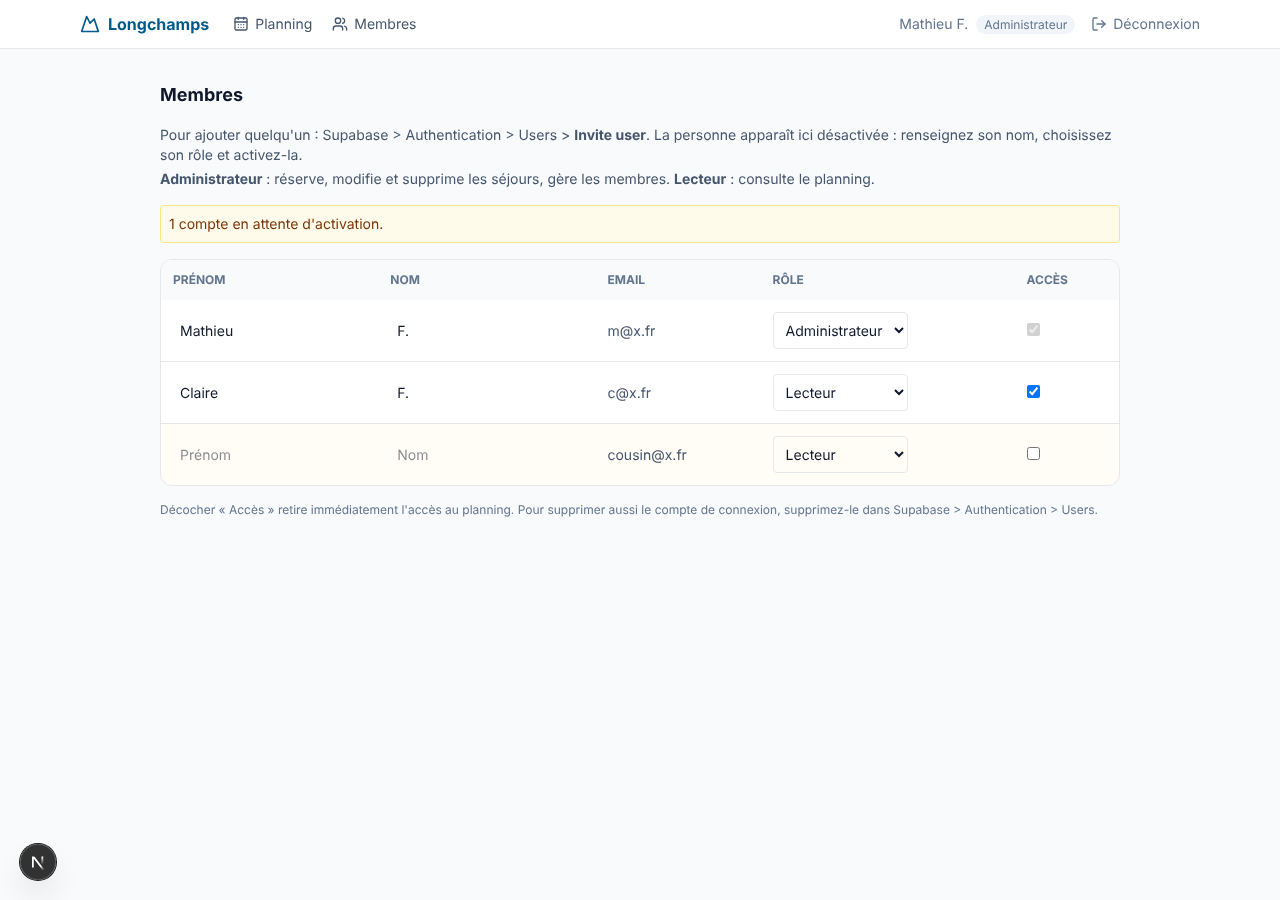
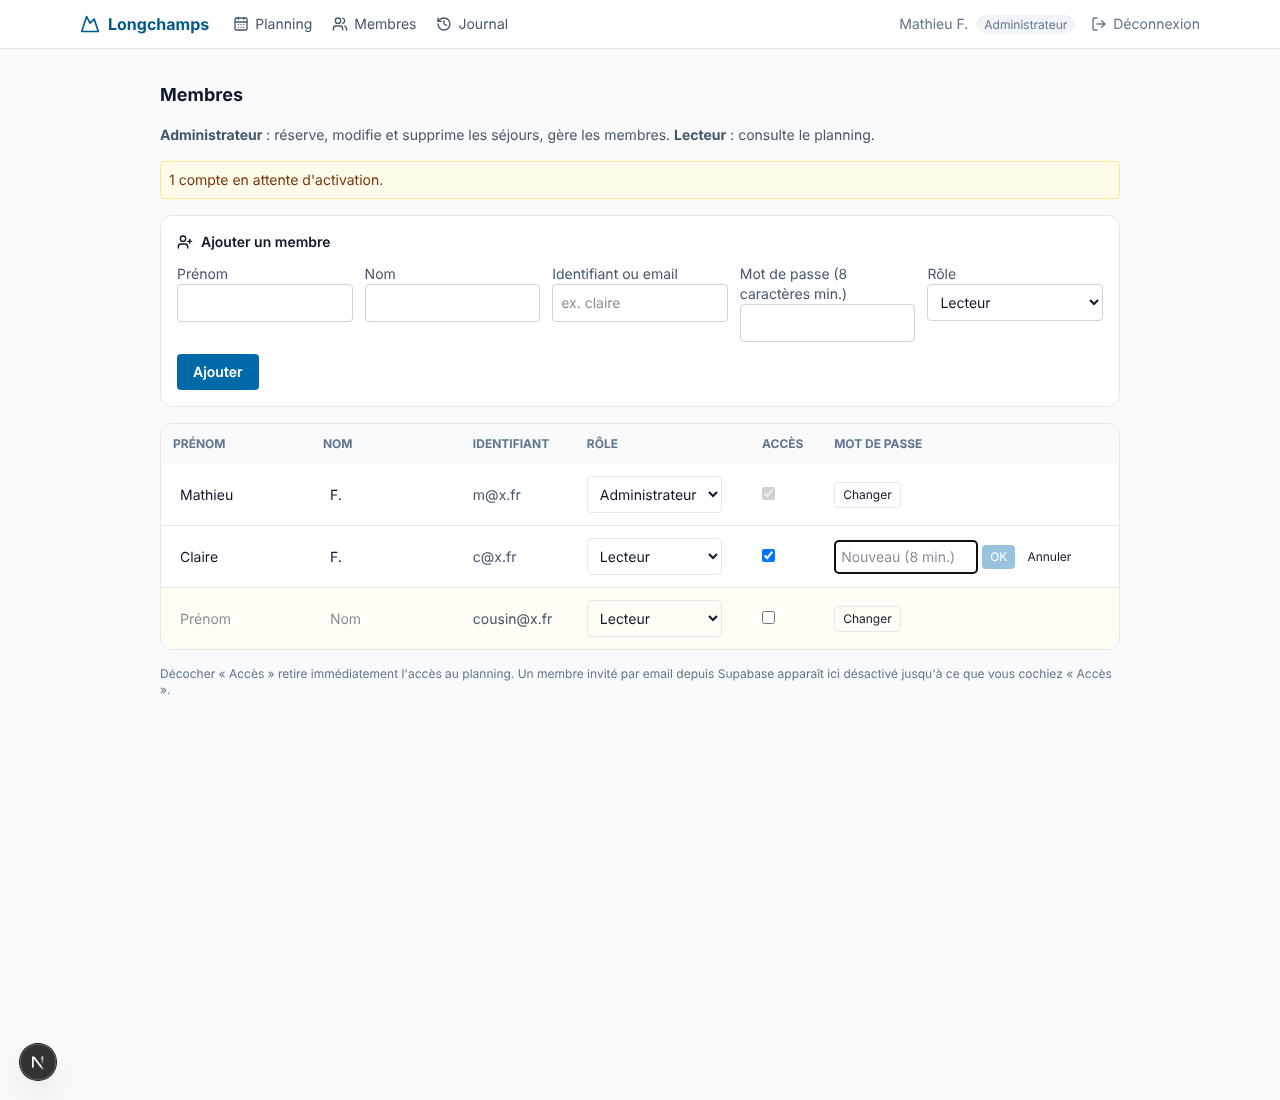
Ajout de membres depuis l'application, carrés d'années, mois passés repliés, mois à gauche
- ajouter_membre() et definir_mot_de_passe() : administrateurs seulement,
  vérifié en base, journalisé (sans jamais écrire le mot de passe)
- Carrés 2026 → 2030 pour choisir l'année
- Une ligne par mois, nom du mois à gauche ; mois passés repliés

Claude-Session: https://claude.ai/code/session_012QjDDecmuspVdpjfWS4GVM

diff --git a/src/components/GestionMembres.tsx b/src/components/GestionMembres.tsx
@@ -1,14 +1,18 @@
 "use client";
 
 import { useCallback, useEffect, useMemo, useState } from "react";
+import { UserPlus } from "lucide-react";
 import { createClient } from "@/lib/supabase/client";
+import { DOMAINE_IDENTIFIANTS } from "@/lib/identifiant";
 import { LIBELLES_ROLE, messageErreur, type Profil, type Role } from "@/lib/types";
 
-/** Membres de la famille : activation, rôle, nom affiché. Réservé aux administrateurs. */
+/** Membres de la famille : ajout, activation, rôle, nom affiché, mot de passe. Réservé aux administrateurs. */
 export default function GestionMembres({ moi }: { moi: string }) {
   const supabase = useMemo(() => createClient(), []);
   const [membres, setMembres] = useState<Profil[]>([]);
   const [message, setMessage] = useState("");
+  const [succes, setSucces] = useState("");
+  const [mdpOuvert, setMdpOuvert] = useState<string | null>(null);
 
   const charger = useCallback(async () => {
     const { data } = await supabase.from("membres").select("id, nom, prenom, email, role, actif").order("actif").order("prenom");
@@ -20,7 +24,15 @@ export default function GestionMembres({ moi }: { moi: string }) {
   const maj = async (id: string, changements: Partial<Pick<Profil, "role" | "actif" | "nom" | "prenom">>) => {
     const { error } = await supabase.from("membres").update(changements).eq("id", id);
     setMessage(error ? messageErreur(error) : "");
+    setSucces("");
     charger();
+  };
+
+  const changerMotDePasse = async (m: Profil, motDePasse: string) => {
+    const { error } = await supabase.rpc("definir_mot_de_passe", { p_membre: m.id, p_mot_de_passe: motDePasse });
+    setMessage(error ? messageErreur(error) : "");
+    setSucces(error ? "" : `Mot de passe de ${m.prenom || identifiant(m.email)} changé.`);
+    if (!error) setMdpOuvert(null);
   };
 
   const champ = "p-2 border rounded text-sm";
@@ -30,22 +42,23 @@ export default function GestionMembres({ moi }: { moi: string }) {
     <main className="max-w-5xl mx-auto p-4 md:p-8 space-y-4">
       <h1 className="text-lg font-bold">Membres</h1>
       <div className="text-sm text-slate-600 space-y-1">
-        <p>Pour ajouter quelqu&apos;un : Supabase &gt; Authentication &gt; Users &gt; <strong>Invite user</strong>. La personne apparaît ici désactivée : renseignez son nom, choisissez son rôle et activez-la.</p>
         <p><strong>Administrateur</strong> : réserve, modifie et supprime les séjours, gère les membres. <strong>Lecteur</strong> : consulte le planning.</p>
       </div>
       {enAttente > 0 && <p className="text-sm bg-amber-50 border border-amber-200 text-amber-900 rounded p-2">{enAttente} compte{enAttente > 1 ? "s" : ""} en attente d&apos;activation.</p>}
+      <FormulaireAjout onAjoute={(nom) => { setMessage(""); setSucces(`${nom} a été ajouté(e). Communiquez-lui son identifiant et son mot de passe.`); charger(); }} onErreur={(e) => { setSucces(""); setMessage(e); }} />
       {message && <p className="text-sm text-red-600">{message}</p>}
+      {succes && <p className="text-sm text-emerald-700">{succes}</p>}
       <div className="bg-white border rounded-xl overflow-x-auto">
         <table className="w-full text-sm text-left">
           <thead className="bg-slate-50 text-xs uppercase text-slate-500">
-            <tr><th className="p-3">Prénom</th><th className="p-3">Nom</th><th className="p-3">Email</th><th className="p-3">Rôle</th><th className="p-3">Accès</th></tr>
+            <tr><th className="p-3">Prénom</th><th className="p-3">Nom</th><th className="p-3">Identifiant</th><th className="p-3">Rôle</th><th className="p-3">Accès</th><th className="p-3">Mot de passe</th></tr>
           </thead>
           <tbody className="divide-y">
             {membres.map((m) => (
               <tr key={m.id} className={m.actif ? "" : "bg-amber-50/50"}>
                 <td className="p-3"><ChampTexte valeur={m.prenom} placeholder="Prénom" onValider={(prenom) => maj(m.id, { prenom })} /></td>
                 <td className="p-3"><ChampTexte valeur={m.nom} placeholder="Nom" onValider={(nom) => maj(m.id, { nom })} /></td>
-                <td className="p-3 text-slate-600">{m.email}</td>
+                <td className="p-3 text-slate-600">{identifiant(m.email)}</td>
                 <td className="p-3">
                   <select value={m.role} disabled={m.id === moi} onChange={(e) => maj(m.id, { role: e.target.value as Role })} className={champ} aria-label={`Rôle de ${m.email}`}>
                     {(Object.keys(LIBELLES_ROLE) as Role[]).map((r) => <option key={r} value={r}>{LIBELLES_ROLE[r]}</option>)}
@@ -54,12 +67,17 @@ export default function GestionMembres({ moi }: { moi: string }) {
                 <td className="p-3">
                   <input type="checkbox" checked={m.actif} disabled={m.id === moi} onChange={(e) => maj(m.id, { actif: e.target.checked })} aria-label={`Activer ${m.email}`} />
                 </td>
+                <td className="p-3 whitespace-nowrap">
+                  {mdpOuvert === m.id
+                    ? <NouveauMotDePasse onValider={(mdp) => changerMotDePasse(m, mdp)} onAnnuler={() => setMdpOuvert(null)} />
+                    : <button type="button" onClick={() => setMdpOuvert(m.id)} className="text-xs px-2 py-1 rounded border hover:bg-slate-100">Changer</button>}
+                </td>
               </tr>
             ))}
           </tbody>
         </table>
       </div>
-      <p className="text-xs text-slate-500">Décocher « Accès » retire immédiatement l&apos;accès au planning. Pour supprimer aussi le compte de connexion, supprimez-le dans Supabase &gt; Authentication &gt; Users.</p>
+      <p className="text-xs text-slate-500">Décocher « Accès » retire immédiatement l&apos;accès au planning. Un membre invité par email depuis Supabase apparaît ici désactivé jusqu&apos;à ce que vous cochiez « Accès ».</p>
     </main>
   );
 }
@@ -72,5 +90,66 @@ function ChampTexte({ valeur, placeholder, onValider }: { valeur: string; placeh
       onBlur={() => { if (texte.trim() !== valeur) onValider(texte.trim()); }}
       onKeyDown={(e) => { if (e.key === "Enter") (e.target as HTMLInputElement).blur(); }}
       className="w-28 p-1.5 border border-transparent hover:border-slate-300 rounded text-sm focus:border-slate-400 outline-none" />
+  );
+}
+
+/** « mathieufabre@longchamps.local » s'affiche « mathieufabre » ; un vrai email reste tel quel. */
+const identifiant = (email: string) => email.endsWith(`@${DOMAINE_IDENTIFIANTS}`) ? email.slice(0, -DOMAINE_IDENTIFIANTS.length - 1) : email;
+
+function FormulaireAjout({ onAjoute, onErreur }: { onAjoute: (nom: string) => void; onErreur: (e: string) => void }) {
+  const supabase = useMemo(() => createClient(), []);
+  const vide = { prenom: "", nom: "", identifiant: "", motDePasse: "", role: "LECTEUR" as Role };
+  const [f, setF] = useState(vide);
+  const [envoi, setEnvoi] = useState(false);
+  const champ = "w-full p-2 border border-slate-300 rounded text-sm outline-none focus:ring-2 focus:ring-sky-500";
+
+  const ajouter = async (e: React.FormEvent) => {
+    e.preventDefault();
+    setEnvoi(true);
+    const { error } = await supabase.rpc("ajouter_membre", {
+      p_identifiant: f.identifiant, p_mot_de_passe: f.motDePasse, p_prenom: f.prenom, p_nom: f.nom, p_role: f.role,
+    });
+    setEnvoi(false);
+    if (error) return onErreur(messageErreur(error));
+    onAjoute([f.prenom, f.nom].filter(Boolean).join(" ") || f.identifiant);
+    setF(vide);
+  };
+
+  return (
+    <form onSubmit={ajouter} className="bg-white border rounded-xl p-4 space-y-3">
+      <h2 className="font-semibold text-sm flex items-center gap-2"><UserPlus size={16} /> Ajouter un membre</h2>
+      <div className="grid gap-3 sm:grid-cols-2 lg:grid-cols-5">
+        <label className="text-sm space-y-1"><span className="text-slate-600">Prénom</span>
+          <input value={f.prenom} onChange={(e) => setF({ ...f, prenom: e.target.value })} className={champ} /></label>
+        <label className="text-sm space-y-1"><span className="text-slate-600">Nom</span>
+          <input value={f.nom} onChange={(e) => setF({ ...f, nom: e.target.value })} className={champ} /></label>
+        <label className="text-sm space-y-1"><span className="text-slate-600">Identifiant ou email</span>
+          <input required autoCapitalize="none" autoComplete="off" placeholder="ex. claire" value={f.identifiant}
+            onChange={(e) => setF({ ...f, identifiant: e.target.value })} className={champ} /></label>
+        <label className="text-sm space-y-1"><span className="text-slate-600">Mot de passe</span>
+          <input required minLength={8} type="text" autoComplete="new-password" placeholder="8 caractères min." value={f.motDePasse}
+            onChange={(e) => setF({ ...f, motDePasse: e.target.value })} className={champ} /></label>
+        <label className="text-sm space-y-1"><span className="text-slate-600">Rôle</span>
+          <select value={f.role} onChange={(e) => setF({ ...f, role: e.target.value as Role })} className={champ}>
+            {(Object.keys(LIBELLES_ROLE) as Role[]).map((r) => <option key={r} value={r}>{LIBELLES_ROLE[r]}</option>)}
+          </select></label>
+      </div>
+      <button disabled={envoi} className="text-sm px-4 py-2 rounded bg-sky-700 text-white font-semibold hover:bg-sky-800 disabled:opacity-60">
+        {envoi ? "Ajout…" : "Ajouter"}
+      </button>
+    </form>
+  );
+}
+
+function NouveauMotDePasse({ onValider, onAnnuler }: { onValider: (mdp: string) => void; onAnnuler: () => void }) {
+  const [mdp, setMdp] = useState("");
+  return (
+    <span className="inline-flex items-center gap-1">
+      <input autoFocus type="text" autoComplete="new-password" placeholder="Nouveau (8 min.)" value={mdp} onChange={(e) => setMdp(e.target.value)}
+        onKeyDown={(e) => { if (e.key === "Enter" && mdp.length >= 8) onValider(mdp); if (e.key === "Escape") onAnnuler(); }}
+        className="w-36 p-1.5 border border-slate-300 rounded text-sm" />
+      <button type="button" disabled={mdp.length < 8} onClick={() => onValider(mdp)} className="text-xs px-2 py-1 rounded bg-sky-700 text-white disabled:opacity-40">OK</button>
+      <button type="button" onClick={onAnnuler} className="text-xs px-2 py-1 rounded hover:bg-slate-100">Annuler</button>
+    </span>
   );
 }

diff --git a/src/components/PlanningAnnuel.tsx b/src/components/PlanningAnnuel.tsx
@@ -2,7 +2,7 @@
 
 import Link from "next/link";
 import { useCallback, useEffect, useMemo, useState } from "react";
-import { ChevronLeft, ChevronRight, Plus } from "lucide-react";
+import { ChevronDown, ChevronRight, Plus } from "lucide-react";
 import { createClient } from "@/lib/supabase/client";
 import {
   couleurOccupant, dateCourte, intervalle, jours, nomMois, reservationsSur, semainesDeLAnnee, versIso,
@@ -11,6 +11,9 @@ import {
 import { LIBELLES_TYPE, messageErreur, type Reservation } from "@/lib/types";
 import FicheReservation, { type Brouillon } from "@/components/FicheReservation";
 
+/** Années proposées en carrés cliquables. */
+const ANNEES = [2026, 2027, 2028, 2029, 2030];
+
 /** Vue annuelle : semaines du lundi au dimanche regroupées par mois ; semaine lundi → vendredi, week-end samedi → dimanche. */
 export default function PlanningAnnuel({ annee, admin }: { annee: number; admin: boolean }) {
   const supabase = useMemo(() => createClient(), []);
@@ -18,9 +21,12 @@ export default function PlanningAnnuel({ annee, admin }: { annee: number; admin:
   const [occupantsConnus, setOccupantsConnus] = useState<string[]>([]);
   const [erreur, setErreur] = useState("");
   const [fiche, setFiche] = useState<Brouillon | null>(null);
+  const [moisOuverts, setMoisOuverts] = useState<Set<number>>(new Set());
+  const basculerMois = (m: number) => setMoisOuverts((o) => { const n = new Set(o); if (n.has(m)) n.delete(m); else n.add(m); return n; });
 
   const semaines = useMemo(() => semainesDeLAnnee(annee), [annee]);
   const aujourdhui = versIso(new Date());
+  const anneeCourante = new Date().getFullYear();
 
   const charger = useCallback(async () => {
     const debut = `${annee}-01-01`;
@@ -58,10 +64,18 @@ export default function PlanningAnnuel({ annee, admin }: { annee: number; admin:
 
   return (
     <main className="max-w-6xl mx-auto p-4 md:p-8 space-y-6">
+      <nav aria-label="Choisir l'année" className="flex flex-wrap gap-2">
+        {ANNEES.map((a) => (
+          <Link key={a} href={`/?annee=${a}`} aria-current={a === annee ? "page" : undefined}
+            className={`w-20 h-20 sm:w-24 sm:h-24 rounded-xl border-2 flex flex-col items-center justify-center font-bold text-xl tabular-nums transition-colors ${
+              a === annee ? "bg-sky-700 border-sky-700 text-white shadow" : "bg-white border-slate-200 text-slate-700 hover:border-sky-500 hover:text-sky-800"}`}>
+            {a}
+            {a === anneeCourante && <span className={`text-[10px] font-medium uppercase tracking-wide ${a === annee ? "text-sky-100" : "text-sky-700"}`}>cette année</span>}
+          </Link>
+        ))}
+      </nav>
       <div className="flex flex-wrap items-center gap-3">
-        <Link href={`/?annee=${annee - 1}`} aria-label="Année précédente" className="p-2 rounded hover:bg-slate-200"><ChevronLeft size={20} /></Link>
-        <h1 className="text-2xl font-bold tabular-nums">{annee}</h1>
-        <Link href={`/?annee=${annee + 1}`} aria-label="Année suivante" className="p-2 rounded hover:bg-slate-200"><ChevronRight size={20} /></Link>
+        <h1 className="text-2xl font-bold tabular-nums">Planning {annee}</h1>
         <p className="text-sm text-slate-500">{reservations.length} réservation{reservations.length > 1 ? "s" : ""} · {totalJours} jour{totalJours > 1 ? "s" : ""}</p>
         {admin && (
           <button type="button" onClick={() => nouvelle({ debut: "", fin: "" }, "AUTRE")}
@@ -76,18 +90,39 @@ export default function PlanningAnnuel({ annee, admin }: { annee: number; admin:
       </p>
       {erreur && <p className="text-sm text-red-600">{erreur}</p>}
 
-      {parMois.map(({ mois, semaines }) => (
-        <section key={mois} className="space-y-2">
-          <h2 className="text-sm font-semibold uppercase tracking-wide text-slate-500">{nomMois(mois)}</h2>
-          <div className="grid gap-3 sm:grid-cols-2 lg:grid-cols-3 xl:grid-cols-4">
-            {semaines.map((s) => (
-              <CarteSemaine key={s.debut} semaine={s} reservations={reservations} admin={admin}
-                passee={s.fin < aujourdhui} enCours={s.debut <= aujourdhui && aujourdhui <= s.fin}
-                onReserver={nouvelle} onOuvrir={ouvrir} />
-            ))}
-          </div>
-        </section>
-      ))}
+      <div className="space-y-3">
+        {parMois.map(({ mois, semaines }) => {
+          const passe = semaines.at(-1)!.fin < aujourdhui;
+          const ouvert = !passe || moisOuverts.has(mois);
+          const nbResas = new Set(semaines.flatMap((s) => reservationsSur(s, reservations).map((r) => r.id))).size;
+          return (
+            <section key={mois} className={`grid gap-3 md:grid-cols-[8rem_1fr] ${passe ? "" : "border-t pt-3"}`}>
+              <h2 className="md:pt-3">
+                {passe ? (
+                  <button type="button" onClick={() => basculerMois(mois)} aria-expanded={ouvert}
+                    className="flex items-center gap-1 text-sm font-semibold uppercase tracking-wide text-slate-400 hover:text-slate-700">
+                    {ouvert ? <ChevronDown size={16} /> : <ChevronRight size={16} />} {nomMois(mois)}
+                  </button>
+                ) : <span className="text-sm font-semibold uppercase tracking-wide text-sky-800">{nomMois(mois)}</span>}
+              </h2>
+              {ouvert ? (
+                <div className="grid gap-3 sm:grid-cols-2 lg:grid-cols-3 xl:grid-cols-4">
+                  {semaines.map((s) => (
+                    <CarteSemaine key={s.debut} semaine={s} reservations={reservations} admin={admin}
+                      passee={s.fin < aujourdhui} enCours={s.debut <= aujourdhui && aujourdhui <= s.fin}
+                      onReserver={nouvelle} onOuvrir={ouvrir} />
+                  ))}
+                </div>
+              ) : (
+                <button type="button" onClick={() => basculerMois(mois)}
+                  className="text-left text-sm text-slate-400 md:pt-3 hover:text-slate-700">
+                  Mois passé · {nbResas === 0 ? "aucune réservation" : `${nbResas} réservation${nbResas > 1 ? "s" : ""}`} · afficher
+                </button>
+              )}
+            </section>
+          );
+        })}
+      </div>
 
       <section className="space-y-2">
         <h2 className="text-sm font-semibold uppercase tracking-wide text-slate-500">Toutes les réservations {annee}</h2>

diff --git a/src/lib/journal.ts b/src/lib/journal.ts
@@ -38,6 +38,7 @@ function differences(e: EntreeJournal): string[] {
     : [["prenom", "prénom", txt], ["nom", "nom", txt], ["role", "rôle", (v) => ROLES[String(v)] ?? txt(v)]];
   const liste = champs.filter(([k]) => JSON.stringify(a[k]) !== JSON.stringify(b[k])).map(([k, libelle, f]) => `${libelle} : ${f(a[k])} → ${f(b[k])}`);
   if (e.objet === "MEMBRE" && a.actif !== b.actif) liste.push(b.actif ? "accès activé" : "accès retiré");
+  if (e.objet === "MEMBRE" && b.mot_de_passe) liste.push("mot de passe changé");
   return liste;
 }
 

diff --git a/src/lib/journal.test.ts b/src/lib/journal.test.ts
@@ -23,3 +23,9 @@ test("membre activé et promu", () => {
 test("heure de Paris", () => {
   assert.match(horodatage("2026-11-23T07:47:00Z"), /08:47/);
 });
+
+test("changement de mot de passe", () => {
+  const m = { id: "u", prenom: "Claire", nom: "", email: "claire@longchamps.local", role: "LECTEUR", actif: true };
+  const d = decrire({ ...base, action: "MODIFICATION", objet: "MEMBRE", avant: m, apres: { ...m, mot_de_passe: "modifié" } } as EntreeJournal);
+  assert.deepEqual(d.detail, ["mot de passe changé"]);
+});

diff --git a/README.md b/README.md
@@ -7,8 +7,8 @@ Base technique reprise de l'application Plombelec (connexion Supabase par invita
 
 | Adresse | Pour qui | Contenu |
 |---|---|---|
-| `/` | Tous les membres actifs | Planning annuel : semaines regroupées par mois, chacune avec sa semaine (lundi → vendredi) et son week-end (samedi → dimanche). Flèches pour changer d'année, liste de toutes les réservations de l'année en bas. |
-| `/membres` | Administrateurs | Activation des comptes, prénom / nom, rôle |
+| `/` | Tous les membres actifs | Planning annuel : carrés 2026 → 2030 pour choisir l'année, une ligne par mois (nom du mois à gauche), chaque semaine avec sa semaine (lundi → vendredi) et son week-end (samedi → dimanche). Mois passés repliés (clic pour les afficher). Liste de toutes les réservations de l'année en bas. |
+| `/membres` | Administrateurs | Ajout d'un membre (identifiant ou email, mot de passe, rôle), activation, prénom / nom, rôle, changement de mot de passe |
 | `/journal` | Administrateurs | Journal des modifications : date, heure, personne, réservation ou membre ajouté, modifié ou supprimé (avec le détail avant → après) |
 | `/login`, `/en-attente` | — | Connexion ; page affichée tant qu'un compte n'est pas activé |
 
